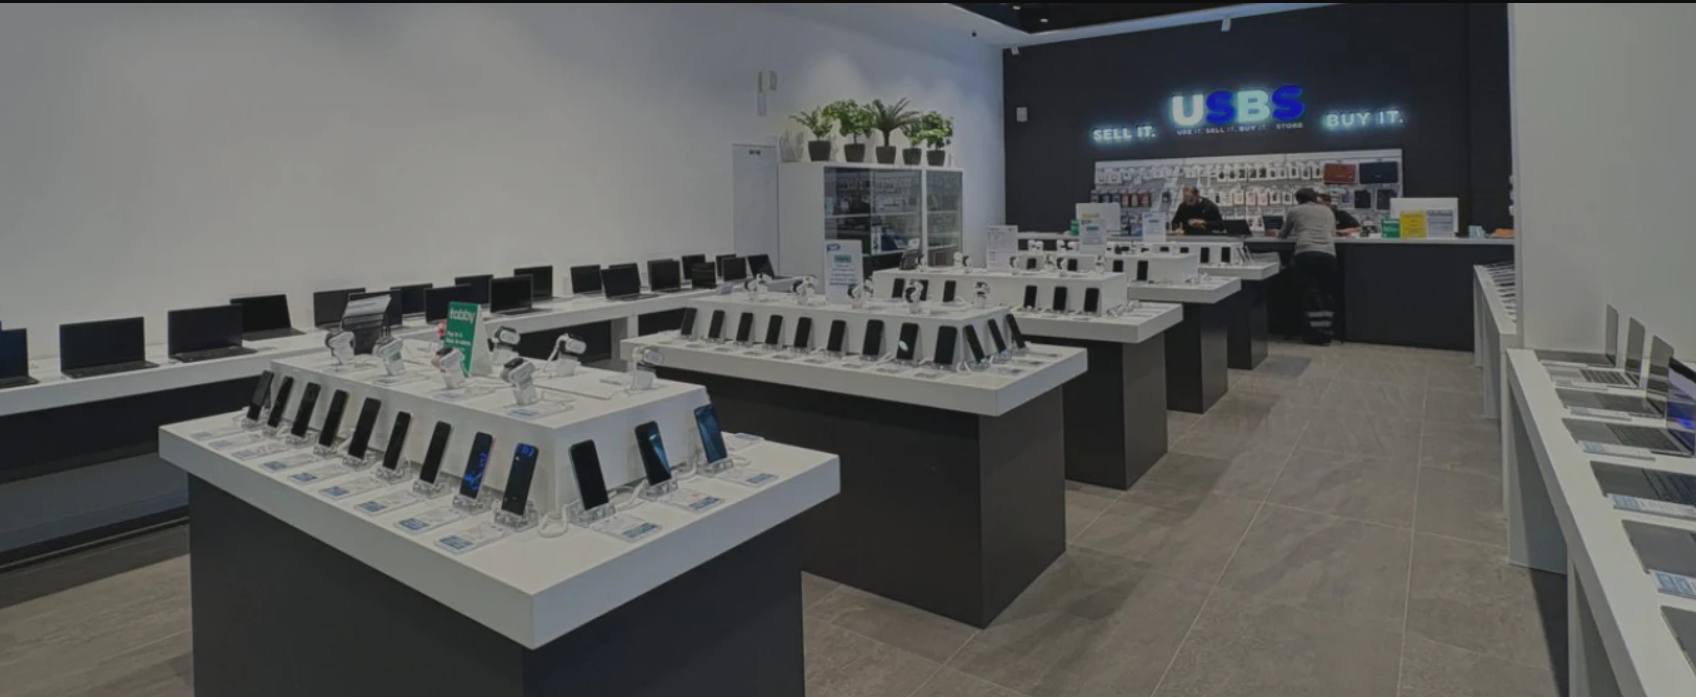
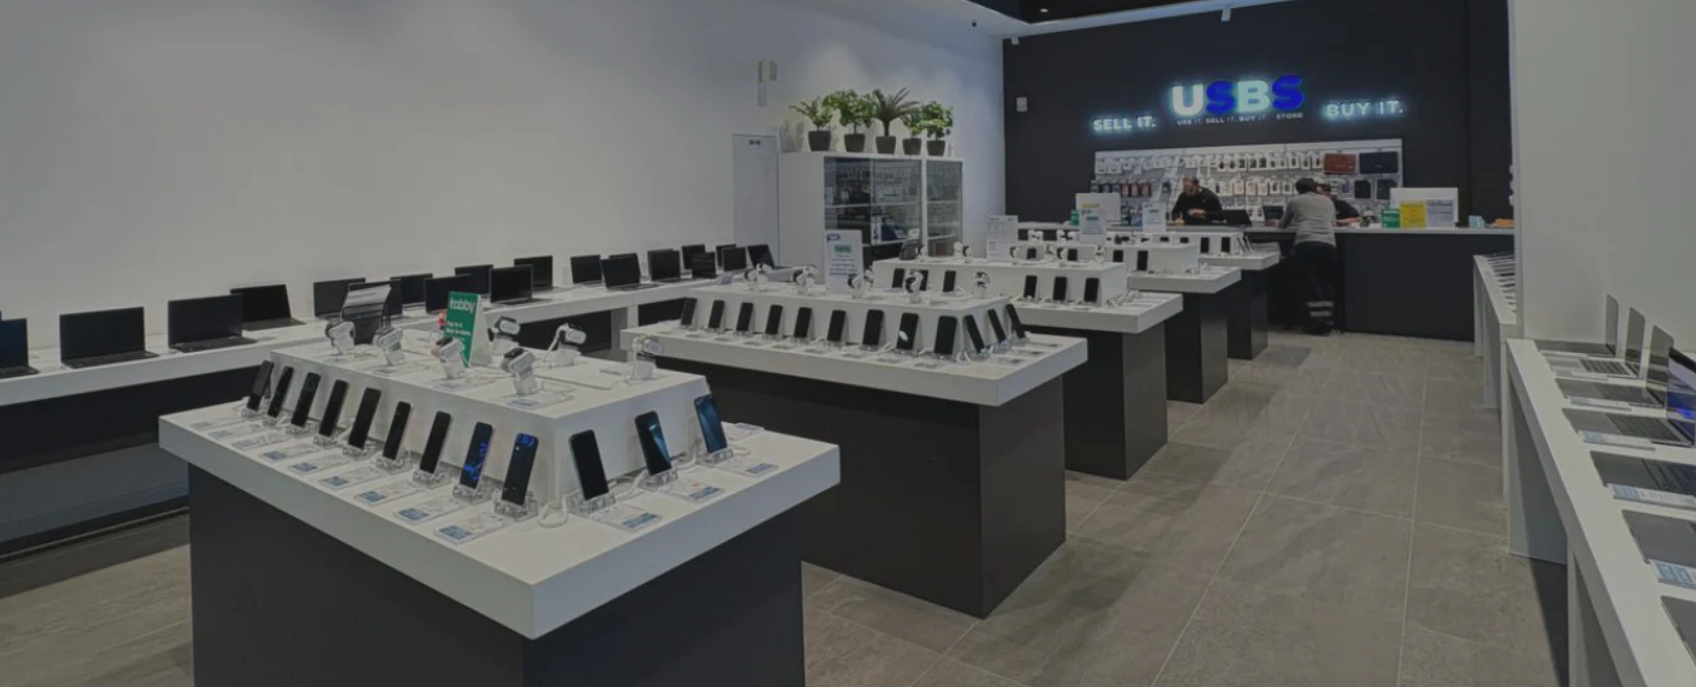
User page

diff --git a/css/style.css b/css/style.css
@@ -84,23 +84,23 @@ nav {
 
 /* From Uiverse.io by SteveBloX */ 
 .nav-links a {
-  width: 200px;
-  height: 70px;
-  padding: 10px;
-  border: 3px solid #315cfd;
-  border-radius: 45px;
-  transition: all 0.3s;
+  border: 2px solid #24b4fb;
+  background-color: #24b4fb;
+  border-radius: 0.9em;
   cursor: pointer;
-  background: white;
-  font-size: 1em;
-  font-weight: 550;
-  text-decoration: none;
+  padding: 0.8em 1.2em 0.8em 1em;
+  transition: all ease-in-out 0.2s;
+  font-size: 16px;
+  display: flex;
+    justify-content: center;
+    align-items: center;
+    color: #fff;
+    font-weight: 600;
+    text-decoration: none;
 }
 
 .nav-links a:hover {
-  background: #315cfd;
-  color: white;
-  font-size: 1.3em;
+  background-color: #0071e2;
 }
 
 .content-wrapper {
@@ -301,7 +301,72 @@ button:focus-visible {
 
 /*Locations*/
 
-.location img{
-    width: 1300px;
+.location {
+    position: relative; /* makes this the reference */
+    width: 100%;
+    max-width: 1300px;
+    margin: 0 auto;
+}
+
+.location img {
+    width: 100%;
+    opacity: 80%;
     height: auto;
+    display: block;
+}
+
+.location-text {
+    position: absolute;
+    top: 50%;
+    left: 50%;
+    transform: translate(-50%, -50%); /* perfect center */
+    text-align: center;
+    color: white;
+}
+/*footer*/
+
+footer{
+    color: #fff;
+    background-color: var(--blue);
+}
+
+.footer-container {
+    margin-top: 10px;
+    display: flex;
+    flex-direction: row;
+    justify-content: space-between;
+    align-items: center;
+    padding: 10px;
+}
+
+.footer-container ul{
+    display: flex;
+    margin-bottom: 32px;
+    gap: 15px;
+    padding: 5px;
+    margin: 0;
+    list-style: none;
+    flex-wrap: wrap;
+    justify-content: center;
+}
+
+.footer-container li{
+    padding: 0 10px;
+    margin-bottom: 0px;
+}
+
+.footer-container a{
+    font-size: 14px;
+    font-weight: 500;
+    color: #fff;
+    text-decoration: none;
+}
+
+.footer-container i{
+    cursor: pointer;
+    font-size: 30px;
+}
+
+.footer-container p{
+    text-align: center;
 }

diff --git a/index.php b/index.php
@@ -10,8 +10,10 @@ include 'db.php';
 <link rel="preconnect" href="https://fonts.googleapis.com">
 <link rel="preconnect" href="https://fonts.gstatic.com" crossorigin>
 <link href="https://fonts.googleapis.com/css2?family=Montserrat:ital,wght@0,100..900;1,100..900&display=swap" rel="stylesheet">
+<link rel="stylesheet" href="https://cdnjs.cloudflare.com/ajax/libs/font-awesome/6.5.0/css/all.min.css">
 <link rel="stylesheet" href="css/style.css">
 <link rel="stylesheet" href="css/selection_bar.css">
+<link rel="stylesheet" href="css/footer.css">
 </head>
 <body>
     <nav class="navbar">
@@ -104,10 +106,30 @@ include 'db.php';
             <p>Find your nearest USBS branch for device inspection and instant payment.</p>
             <button>Dubai Outlet Mall</button>
             <button>Al Ghurair Center</button>
-
-
-
+        </div>
     </div>
+
+
+    <footer>
+        <div class="footer-container">
+            <ul class="flex-row">
+                <li><a href="https://usbs-uae.com/pages/about-us">About Us</a></li>
+                <li><a href="https://usbs-uae.com/pages/contact">Contact Us</a></li>
+            </ul>
+            <ul class="flex-row">
+                <li>
+                    <i class="fab fa-tiktok"></i>
+                </li>
+                <li>
+                    <i class="fab fa-instagram"></i>
+                </li>
+                <li>
+                    <i class="fab fa-facebook"></i>
+                </li>
+            </ul>
+            <p>&copy;2026 USBS</p>
+        </div>
+    </footer>
 <script src="js/script.js?v=1.0"></script>
 <script src="js/selection_bar.js?v=1.0"></script>
 </body>
